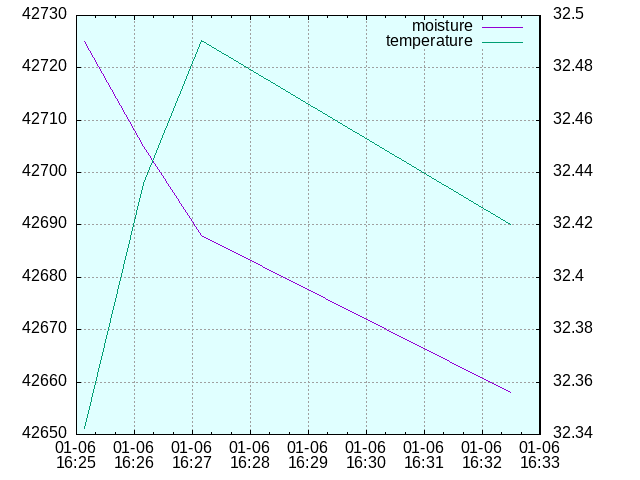
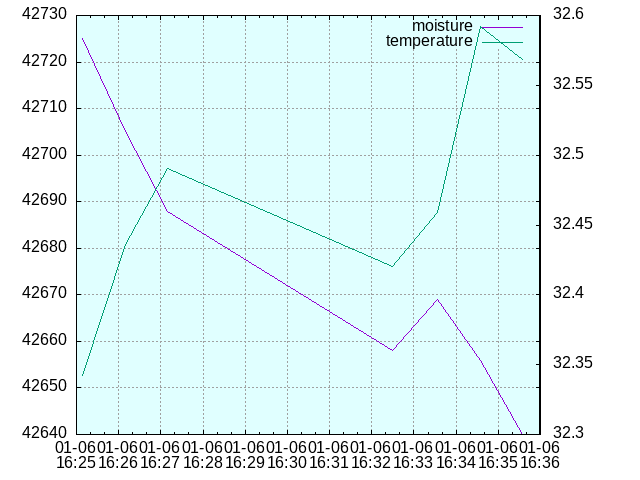
update

diff --git a/read_from_pico.py b/read_from_pico.py
@@ -3,10 +3,10 @@ import os
 
 while True:
     os.system("cd /home/pi/Desktop/repo/rpi/ && gnuplot -e \"datafile='baobab.csv'; load 'settings_baobab.gp'\" plot.gp")
-    sleep(60)
+    sleep(15)
     os.system("cd /home/pi/Desktop/repo/rpi/ && git add .")
-    sleep(60)
+    sleep(15)
     os.system("cd /home/pi/Desktop/repo/rpi/ && git commit -m \"update\"")
-    sleep(60)
+    sleep(15)
     os.system("cd /home/pi/Desktop/repo/rpi/ && git push")
-    sleep(60)
+    sleep(15)
